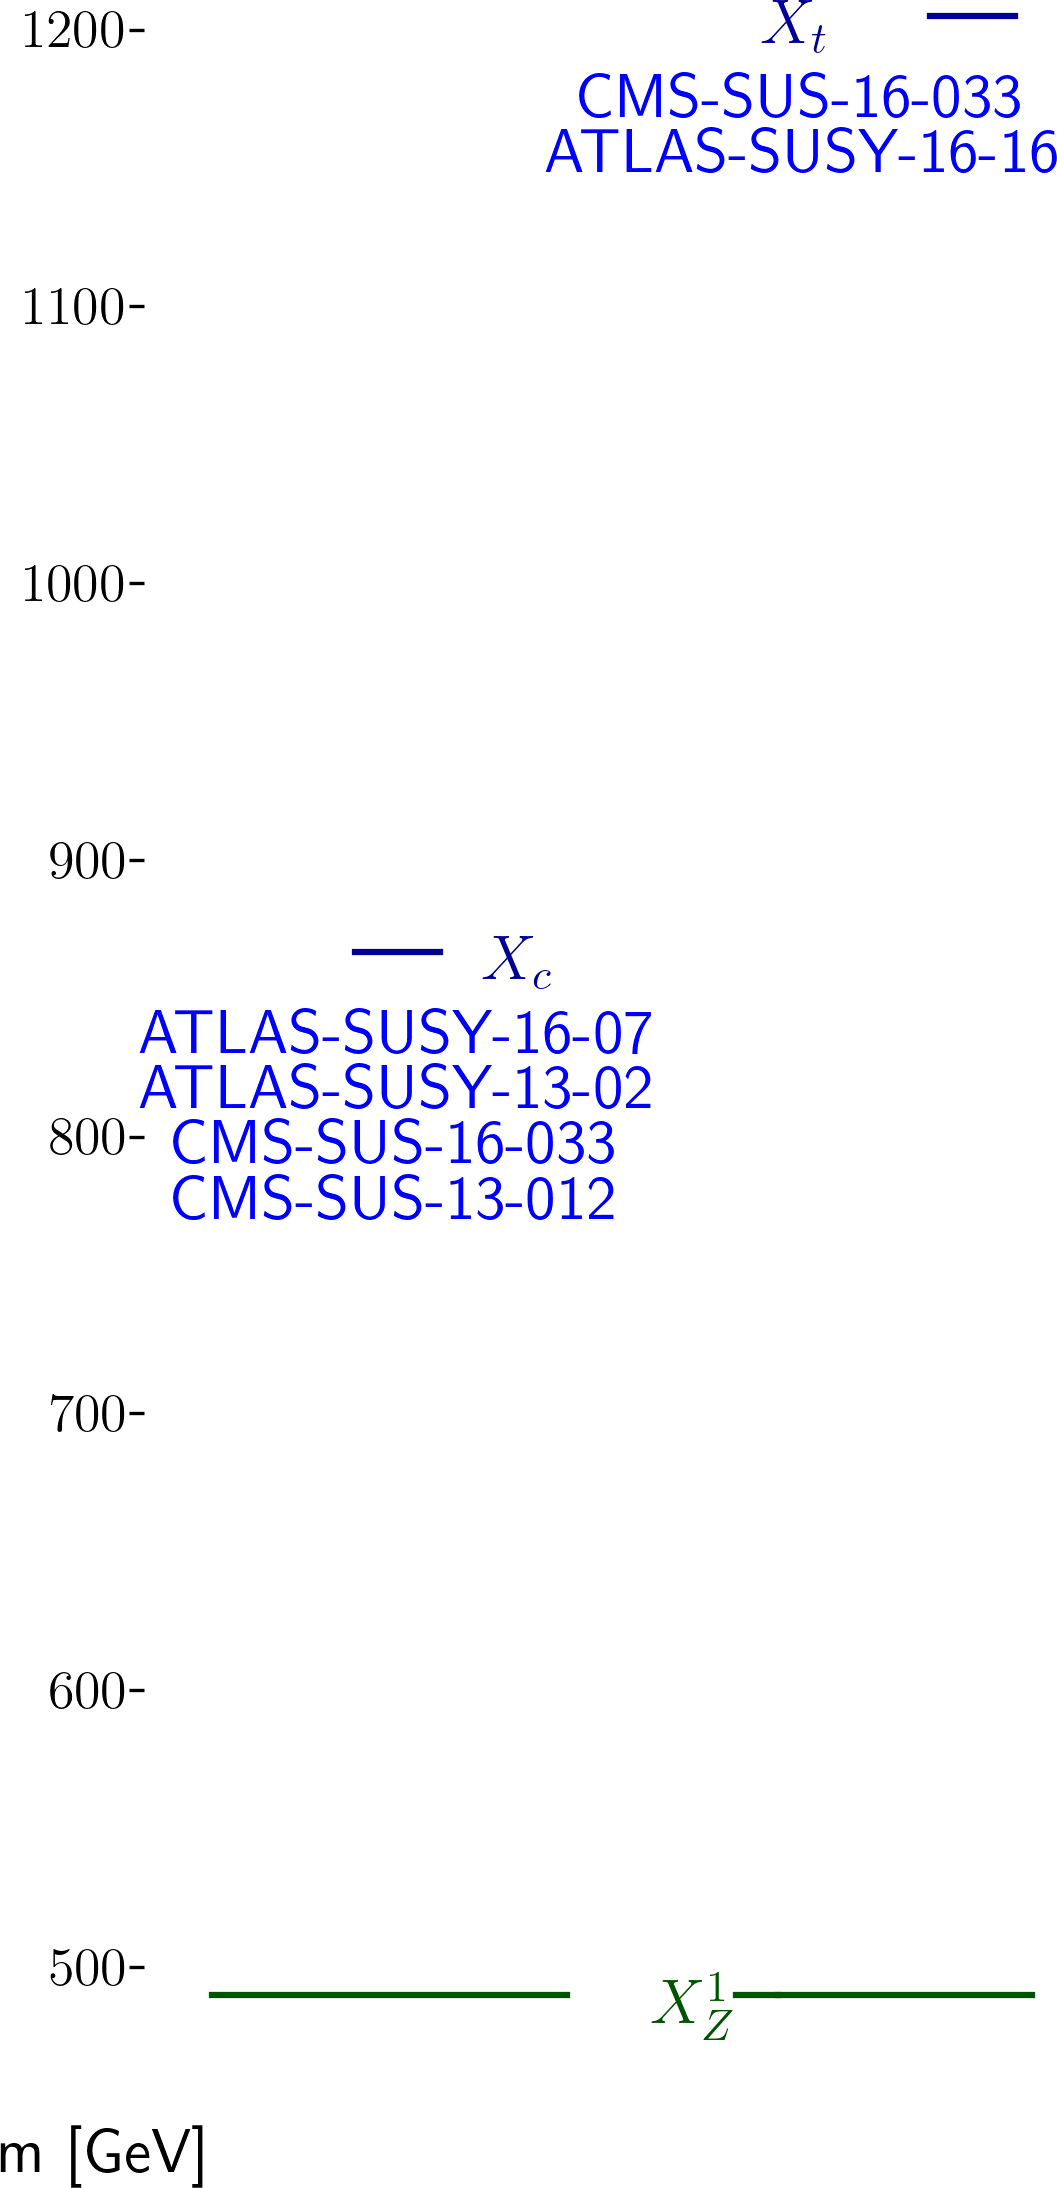
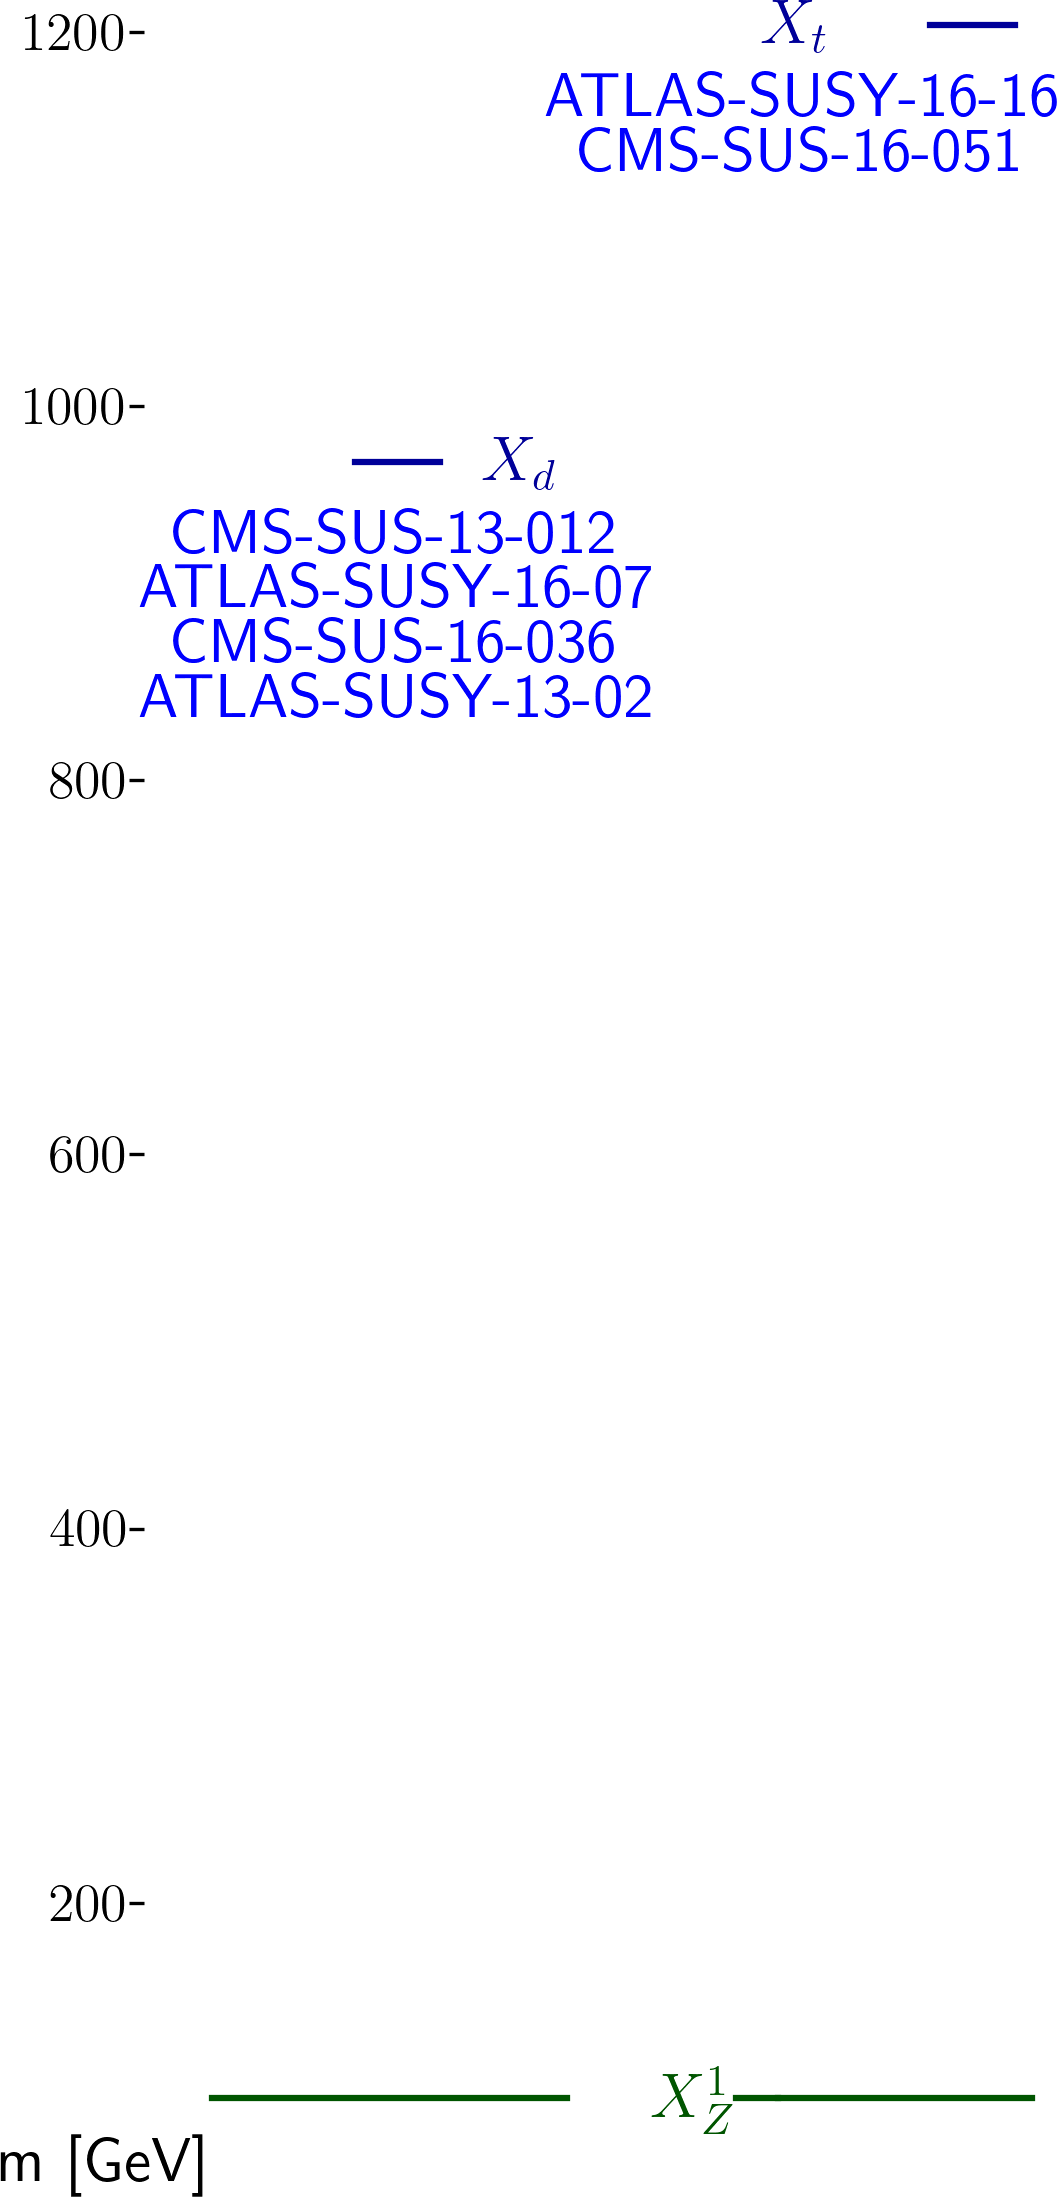
automated update by plotHiscore.py to /scratch-cbe/users/wolfgan.waltenberger/git/smodels.github.io/protomodels

diff --git a/protomodels/2020_PioneerStudy/closure_frozen5/index.html b/protomodels/2020_PioneerStudy/closure_frozen5/index.html
@@ -1,30 +1,31 @@
 <html>
 <body>
 <center>
-<table><td><h1>Current best protomodel: <i>K</i>=4.33</h1><td><img height=60px src=https://smodels.github.io/pics/banner.png></table>
+<table><td><h1>Current best protomodel: <i>K</i>=8.60</h1><td><img height=60px src=https://smodels.github.io/pics/banner.png></table>
 </center>
-<b><a href=./hiscore.slha>ProtoModel</a> <a href=./pmodel.py>(dict)</a> produced with <a href=https://smodels.github.io/docs/Validation124doublefrozen5>database v1.2.4doublefrozen5</a>, combination strategy <a href=./matrix_aggressive.png>aggressive</a> in walker 11 step 636.</b> <i>K</i> plots for: <a href=./M1000022.png?15051615>X<sub>Z</sub><sup>1</sup></a>, <a href=./M1000006.png?15051615>X<sub>t</sub></a>, <a href=./M1000004.png?15051615>X<sub>c</sub></a>. HPD plots for: <a href=./llhd1000006.png?15051615>X<sub>t</sub></a>, <a href=./llhd1000004.png?15051615>X<sub>c</sub></a>. SSM plots for: <a href=./ssm_-1000006_1000006.png?15051615>(x&#772;<sub>t</sub>,X<sub>t</sub>)</a><br>
+<b><a href=./hiscore.slha>ProtoModel</a> <a href=./pmodel.py>(dict)</a> produced with <a href=https://smodels.github.io/docs/Validation124frozen5>database v1.2.4frozen5</a>, combination strategy <a href=./matrix_aggressive.png>aggressive</a> in walker 15 step 204.</b> <i>K</i> plots for: <a href=./M1000022.png?15313077>X<sub>Z</sub><sup>1</sup></a>, <a href=./M1000006.png?15313077>X<sub>t</sub></a>, <a href=./M1000001.png?15313077>X<sub>d</sub></a>. HPD plots for: <a href=./llhd1000006.png?15313077>X<sub>t</sub></a>, <a href=./llhd1000001.png?15313077>X<sub>d</sub></a>. SSM plots for: <a href=./ssm_-1000006_1000006.png?15313077>(x&#772;<sub>t</sub>,X<sub>t</sub>)</a><br>
 <table width=80%>
 <tr><td>
-<br><b>22 predictions available. Highest r values are:</b><br><ul>
-<li><a href=http://cms-results.web.cern.ch/cms-results/public-results/publications/SUS-19-006/index.html>CMS-SUS-19-006</a>:T2tt r=1.30, r<sub>exp</sub>=1.30<br>
-<li><a href=http://cms-results.web.cern.ch/cms-results/public-results/publications/SUS-19-006/index.html>CMS-SUS-19-006</a>:T2 r=1.27, r<sub>exp</sub>=1.27<br>
-<li><a href=http://cms-results.web.cern.ch/cms-results/public-results/publications/SUS-16-049/index.html>CMS-SUS-16-049</a>:T2tt r=1.26, r<sub>exp</sub>=1.26<br>
-<li><a href=http://cms-results.web.cern.ch/cms-results/public-results/publications/SUS-16-050/index.html>CMS-SUS-16-050</a>:T2tt r=1.20, r<sub>exp</sub>=1.20<br>
-<li><a href=http://cms-results.web.cern.ch/cms-results/public-results/publications/SUS-16-033/index.html>CMS-SUS-16-033</a>:T2 r=0.98, r<sub>exp</sub>=0.98<br>
+<br><b>23 predictions available. Highest r values are:</b><br><ul>
+<li><a href=http://cms-results.web.cern.ch/cms-results/public-results/publications/SUS-19-006/index.html>CMS-SUS-19-006</a>:T2tt r=0.69, r<sub>exp</sub>=N/A<br>
+<li><a href=http://cms-results.web.cern.ch/cms-results/public-results/publications/SUS-16-050/index.html>CMS-SUS-16-050</a>:T2tt r=0.64, r<sub>exp</sub>=N/A<br>
+<li><a href=http://cms-results.web.cern.ch/cms-results/public-results/publications/SUS-16-049/index.html>CMS-SUS-16-049</a>:T2tt r=0.63, r<sub>exp</sub>=N/A<br>
+<li><a href=https://atlas.web.cern.ch/Atlas/GROUPS/PHYSICS/PAPERS/SUSY-2016-07/>ATLAS-SUSY-2016-07</a>:T2 r=0.56, r<sub>exp</sub>=N/A<br>
+<li><a href=http://cms-results.web.cern.ch/cms-results/public-results/publications/SUS-16-036/index.html>CMS-SUS-16-036</a>:T2tt r=0.51, r<sub>exp</sub>=N/A<br>
 </ul>
 <td><br><b>K values without analyses: (contribution)</b><br>
 <ul>
-<li> <a href=https://twiki.cern.ch/twiki/bin/view/CMSPublic/PhysicsResultsSUS13012>CMS-SUS-13-012</a>: 4.71 (-7%)
-<li> <a href=https://atlas.web.cern.ch/Atlas/GROUPS/PHYSICS/PAPERS/SUSY-2013-02/>ATLAS-SUSY-2013-02</a>: 4.48 (-3%)
-<li> <a href=http://cms-results.web.cern.ch/cms-results/public-results/publications/SUS-16-033/index.html>CMS-SUS-16-033</a>: 3.88 (8%)
-<li> <a href=https://atlas.web.cern.ch/Atlas/GROUPS/PHYSICS/PAPERS/SUSY-2016-16/>ATLAS-SUSY-2016-16</a>: 2.82 (27%)
-<li> <a href=https://atlas.web.cern.ch/Atlas/GROUPS/PHYSICS/PAPERS/SUSY-2016-07/>ATLAS-SUSY-2016-07</a>: 0.25 (74%)
-<td><img width=600px src=./texdoc.png?1608051615>
-<br><font size=-1>Last updated: Tue Dec 15 18:00:15 2020</font>
+<li> <a href=https://twiki.cern.ch/twiki/bin/view/CMSPublic/PhysicsResultsSUS13012>CMS-SUS-13-012</a>: 0.48 (15%)
+<li> <a href=http://cms-results.web.cern.ch/cms-results/public-results/publications/SUS-16-051/index.html>CMS-SUS-16-051</a>: 0.48 (15%)
+<li> <a href=http://cms-results.web.cern.ch/cms-results/public-results/publications/SUS-16-036/index.html>CMS-SUS-16-036</a>: 0.48 (15%)
+<li> <a href=https://atlas.web.cern.ch/Atlas/GROUPS/PHYSICS/PAPERS/SUSY-2013-02/>ATLAS-SUSY-2013-02</a>: 0.41 (16%)
+<li> <a href=https://atlas.web.cern.ch/Atlas/GROUPS/PHYSICS/PAPERS/SUSY-2016-07/>ATLAS-SUSY-2016-07</a>: -0.79 (18%)
+<li> <a href=https://atlas.web.cern.ch/Atlas/GROUPS/PHYSICS/PAPERS/SUSY-2016-16/>ATLAS-SUSY-2016-16</a>: -2.21 (20%)
+<td><img width=600px src=./texdoc.png?1608313077>
+<br><font size=-1>Last updated: Fri Dec 18 18:37:57 2020</font>
 </table><table style="width:80%">
-<td width=45%><img height=580px src=./ruler.png?1608051615><td width=55%><img height=380px src=./decays.png?1608051615>
-<font size=-3><iframe type="text/html" height="220px" width="100%s" frameborder="0" src="./rawnumbers.html?1608051615"></iframe></font>
+<td width=45%><img height=580px src=./ruler.png?1608313077><td width=55%><img height=380px src=./decays.png?1608313077>
+<font size=-3><iframe type="text/html" height="220px" width="100%s" frameborder="0" src="./rawnumbers.html?1608313077"></iframe></font>
 </table>
 </body>
 </html>

diff --git a/protomodels/2020_PioneerStudy/closure_frozen5/rawnumbers.html b/protomodels/2020_PioneerStudy/closure_frozen5/rawnumbers.html
@@ -1,9 +1,10 @@
 <table>
 <tr><th>Analysis Name</th><th>Type</th><th>Dataset</th><th>Topos</th><th>Observed</th><th>Expected</th><th>Approx &sigma;</th><th>Particles</th><th>Signal</th>
 </tr>
-<tr><td><a href=https://atlas.web.cern.ch/Atlas/GROUPS/PHYSICS/PAPERS/SUSY-2013-02/>ATLAS-SUSY-2013-02</a></td><td>em</td> <td>SR2jm</td><td>T2</td><td>791.45</td><td>760 +/- 50</td><td style="text-align:right">0.6 &sigma;</td><td style="text-align:right">X<sub>c</sub></td><td style="text-align:right">31.45</td></tr>
-<tr><td><a href=https://atlas.web.cern.ch/Atlas/GROUPS/PHYSICS/PAPERS/SUSY-2016-07/>ATLAS-SUSY-2016-07</a></td><td>em</td> <td>2j_Meff_1200</td><td>T2</td><td>614.32</td><td>526 +/- 31</td><td style="text-align:right">2.3 &sigma;</td><td style="text-align:right">X<sub>c</sub></td><td style="text-align:right">88.32</td></tr>
+<tr><td><a href=https://atlas.web.cern.ch/Atlas/GROUPS/PHYSICS/PAPERS/SUSY-2013-02/>ATLAS-SUSY-2013-02</a></td><td>em</td> <td>SR4jt</td><td>T2</td><td>2.73</td><td>2.5 +/- 1</td><td style="text-align:right">0.1 &sigma;</td><td style="text-align:right">X<sub>d</sub></td><td style="text-align:right">0.23</td></tr>
+<tr><td><a href=https://atlas.web.cern.ch/Atlas/GROUPS/PHYSICS/PAPERS/SUSY-2016-07/>ATLAS-SUSY-2016-07</a></td><td>em</td> <td>2j_Meff_1200</td><td>T2</td><td>570.16</td><td>526 +/- 31</td><td style="text-align:right">1.1 &sigma;</td><td style="text-align:right">X<sub>d</sub></td><td style="text-align:right">44.16</td></tr>
 <tr><td><a href=https://atlas.web.cern.ch/Atlas/GROUPS/PHYSICS/PAPERS/SUSY-2016-16/>ATLAS-SUSY-2016-16</a></td><td>em</td> <td>tN_high</td><td>T2tt</td><td>7.73</td><td>3.8 +/- 1</td><td style="text-align:right">1.8 &sigma;</td><td style="text-align:right">X<sub>t</sub></td><td style="text-align:right">3.93</td></tr>
-<tr><td><a href=https://twiki.cern.ch/twiki/bin/view/CMSPublic/PhysicsResultsSUS13012>CMS-SUS-13-012</a></td><td>em</td> <td>8NJetinf_500HT8 ...</td><td>T2</td><td>4.80</td><td>4.8 +/- 2.3</td><td style="text-align:right">0.0 &sigma;</td><td style="text-align:right">X<sub>c</sub></td><td style="text-align:right">0.00</td></tr>
-<tr><td><a href=http://cms-results.web.cern.ch/cms-results/public-results/publications/SUS-16-033/index.html>CMS-SUS-16-033</a></td><td>em</td> <td>SR1_Njet2_Nb0_H ...</td><td>T2, T2tt</td><td>8000.72</td><td>7584 +/- 433</td><td style="text-align:right">0.9 &sigma;</td><td style="text-align:right">X<sub>c</sub>, X<sub>t</sub></td><td style="text-align:right">416.72</td></tr>
+<tr><td><a href=https://twiki.cern.ch/twiki/bin/view/CMSPublic/PhysicsResultsSUS13012>CMS-SUS-13-012</a></td><td>ul</td> <td>-</td><td>T2</td><td> 9.1 fb </td><td> 6.5 fb</td><td style="text-align:right">0.8 &sigma;</td><td style="text-align:right">X<sub>d</sub></td><td style="text-align:right">2.66 fb</td></tr>
+<tr><td><a href=http://cms-results.web.cern.ch/cms-results/public-results/publications/SUS-16-036/index.html>CMS-SUS-16-036</a></td><td>ul</td> <td>-</td><td>T2</td><td> 33.4 fb </td><td> 9.5 fb</td><td style="text-align:right">4.9 &sigma;</td><td style="text-align:right">X<sub>d</sub></td><td style="text-align:right">23.95 fb</td></tr>
+<tr><td><a href=http://cms-results.web.cern.ch/cms-results/public-results/publications/SUS-16-051/index.html>CMS-SUS-16-051</a></td><td>ul</td> <td>-</td><td>T2tt</td><td> 6.7 fb </td><td> 4.1 fb</td><td style="text-align:right">1.3 &sigma;</td><td style="text-align:right">X<sub>t</sub></td><td style="text-align:right">2.62 fb</td></tr>
 </table>

diff --git a/protomodels/2020_PioneerStudy/closure_frozen5/pmodel.py b/protomodels/2020_PioneerStudy/closure_frozen5/pmodel.py
@@ -1,1 +1,1 @@
-{'masses': {1000022: 479.89, 1000004: 856.585, 1000006: 1194.886}, 'ssmultipliers': {(1000022, 1000022): 0.0, (1000004, 1000004): 2.225, (-1000004, 1000004): 2.396, (-1000004, -1000004): 2.396, (1000004, 1000022): 2.396, (-1000004, 1000022): 2.396, (1000006, 1000006): 2.371, (-1000006, 1000006): 2.371, (-1000006, -1000006): 2.371, (1000006, 1000022): 2.371, (-1000006, 1000022): 2.371, (1000004, 1000006): 2.371, (-1000006, 1000004): 2.371, (-1000004, 1000006): 2.371, (-1000006, -1000004): 2.371}, 'decays': {1000022: {}, 1000004: {(1000022, 4): 1.0}, 1000006: {(1000022, 6): 1.0}}, 'timestamp': 'Tue Dec 15 18:00:06 2020', 'Z': 2.767, 'K': 4.33, 'walkerid': 11, 'step': 636, 'codever': '1.0', 'dbver': '1.2.4doublefrozen5'}
+{'masses': {1000022: 85.543, 1000006: 1193.738, 1000001: 960.24}, 'ssmultipliers': {(1000022, 1000022): 0.001, (1000006, 1000006): 1.86, (-1000006, 1000006): 1.86, (-1000006, -1000006): 1.86, (1000006, 1000022): 1.86, (-1000006, 1000022): 1.86, (1000001, 1000001): 1.309, (-1000001, 1000001): 1.309, (-1000001, -1000001): 1.309, (1000001, 1000022): 1.309, (-1000001, 1000022): 1.309, (1000001, 1000006): 1.147, (-1000001, 1000006): 1.147, (-1000006, 1000001): 1.147, (-1000006, -1000001): 1.147}, 'decays': {1000022: {}, 1000006: {(1000022, 6): 1.0}, 1000001: {(1000022, 1): 1.0}}, 'timestamp': 'Fri Dec 18 18:37:46 2020', 'Z': 3.485, 'K': 8.598, 'walkerid': 15, 'step': 204, 'codever': '1.0', 'dbver': '1.2.4frozen5'}
